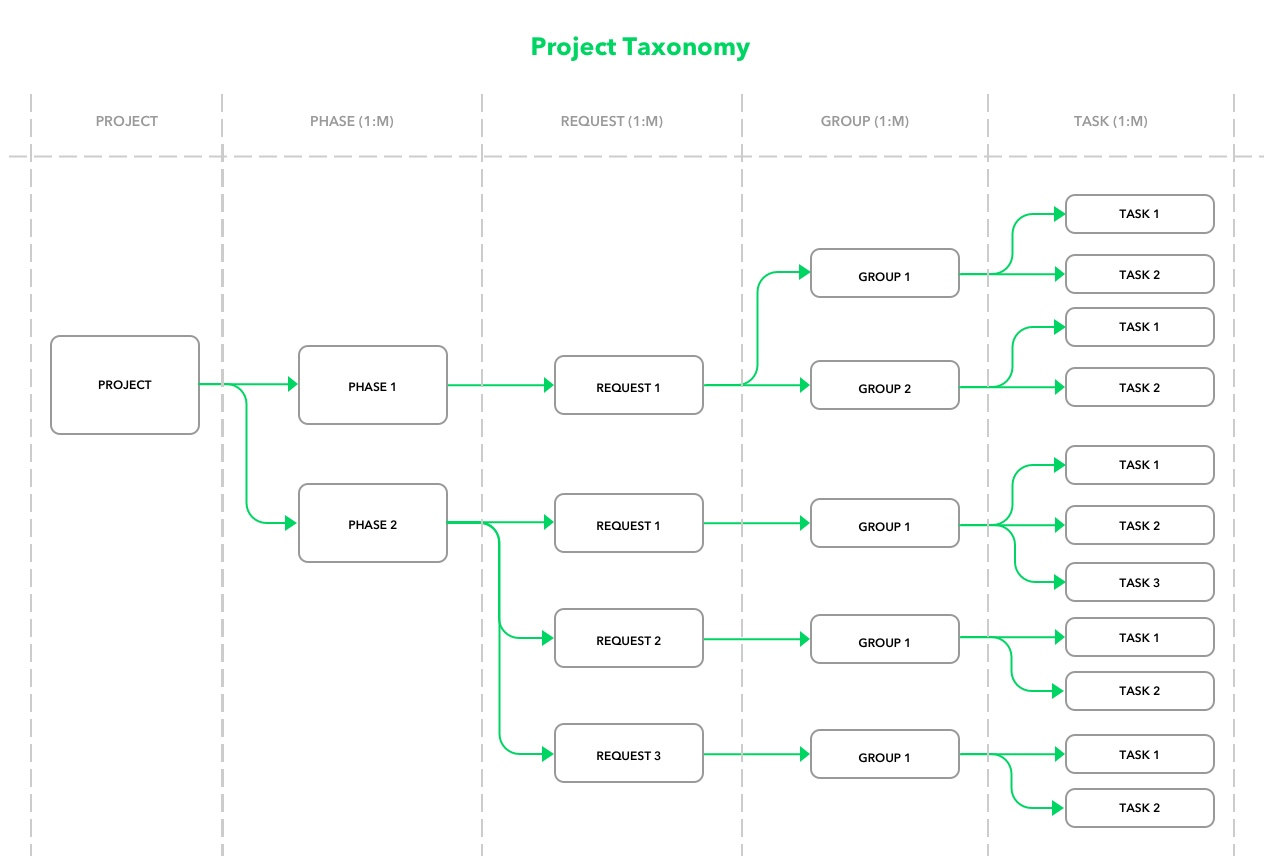
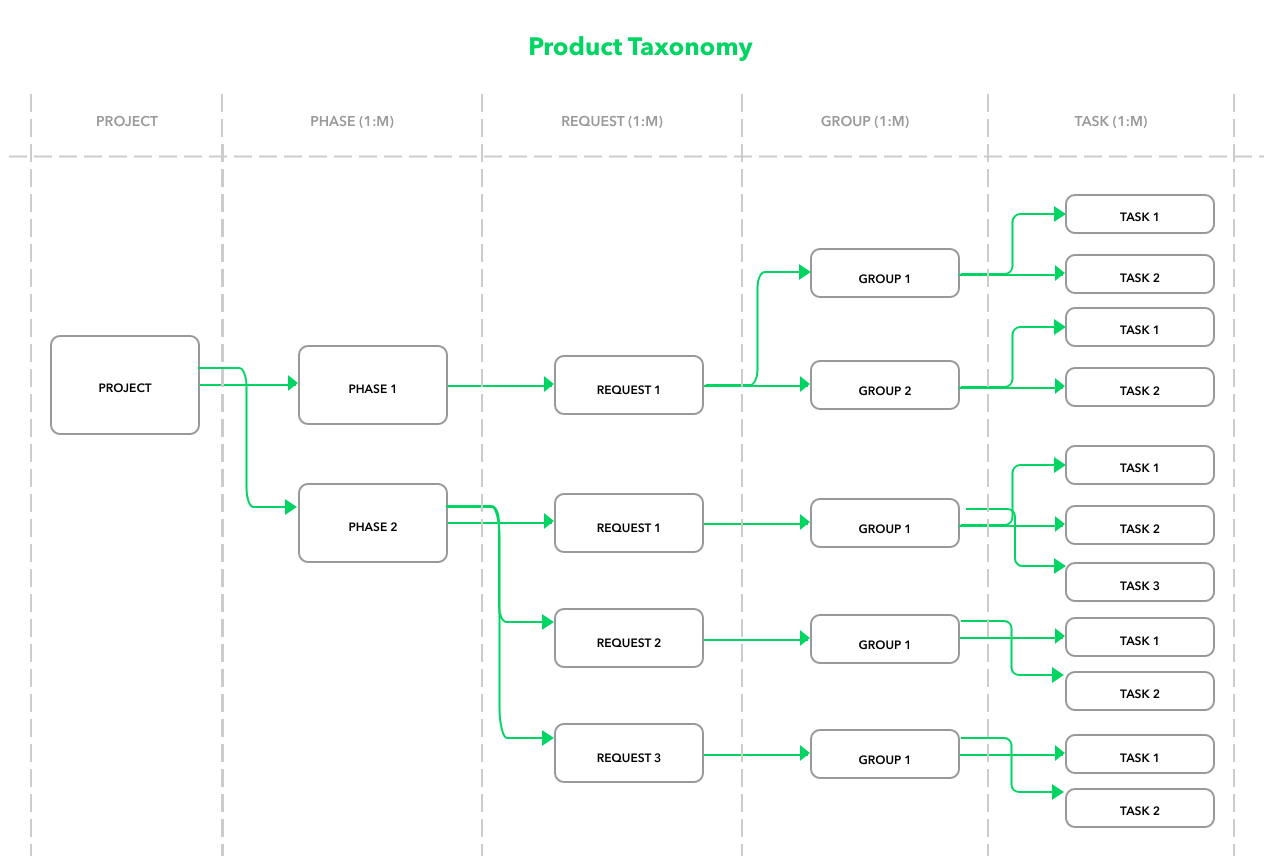
update project architecture

diff --git a/project-planner.html b/project-planner.html
@@ -913,8 +913,8 @@
             more criteria if they need to.</p>
         </div>
         <div class="col-xs-12 mb-40">
-          <h5>Information Architecture & Onboarding </h5>
-          <p>We created an information architecture and conducted several training sessions for the team to
+          <h5>Product Architecture & Onboarding </h5>
+          <p>We created a product architecture and conducted several training sessions for the team to
             introduce
             this newly added feature to our product.</p>
           <img src="images-dec-19/project-taxonomy.jpg" class="img-responsive mt-40 mb-40">
